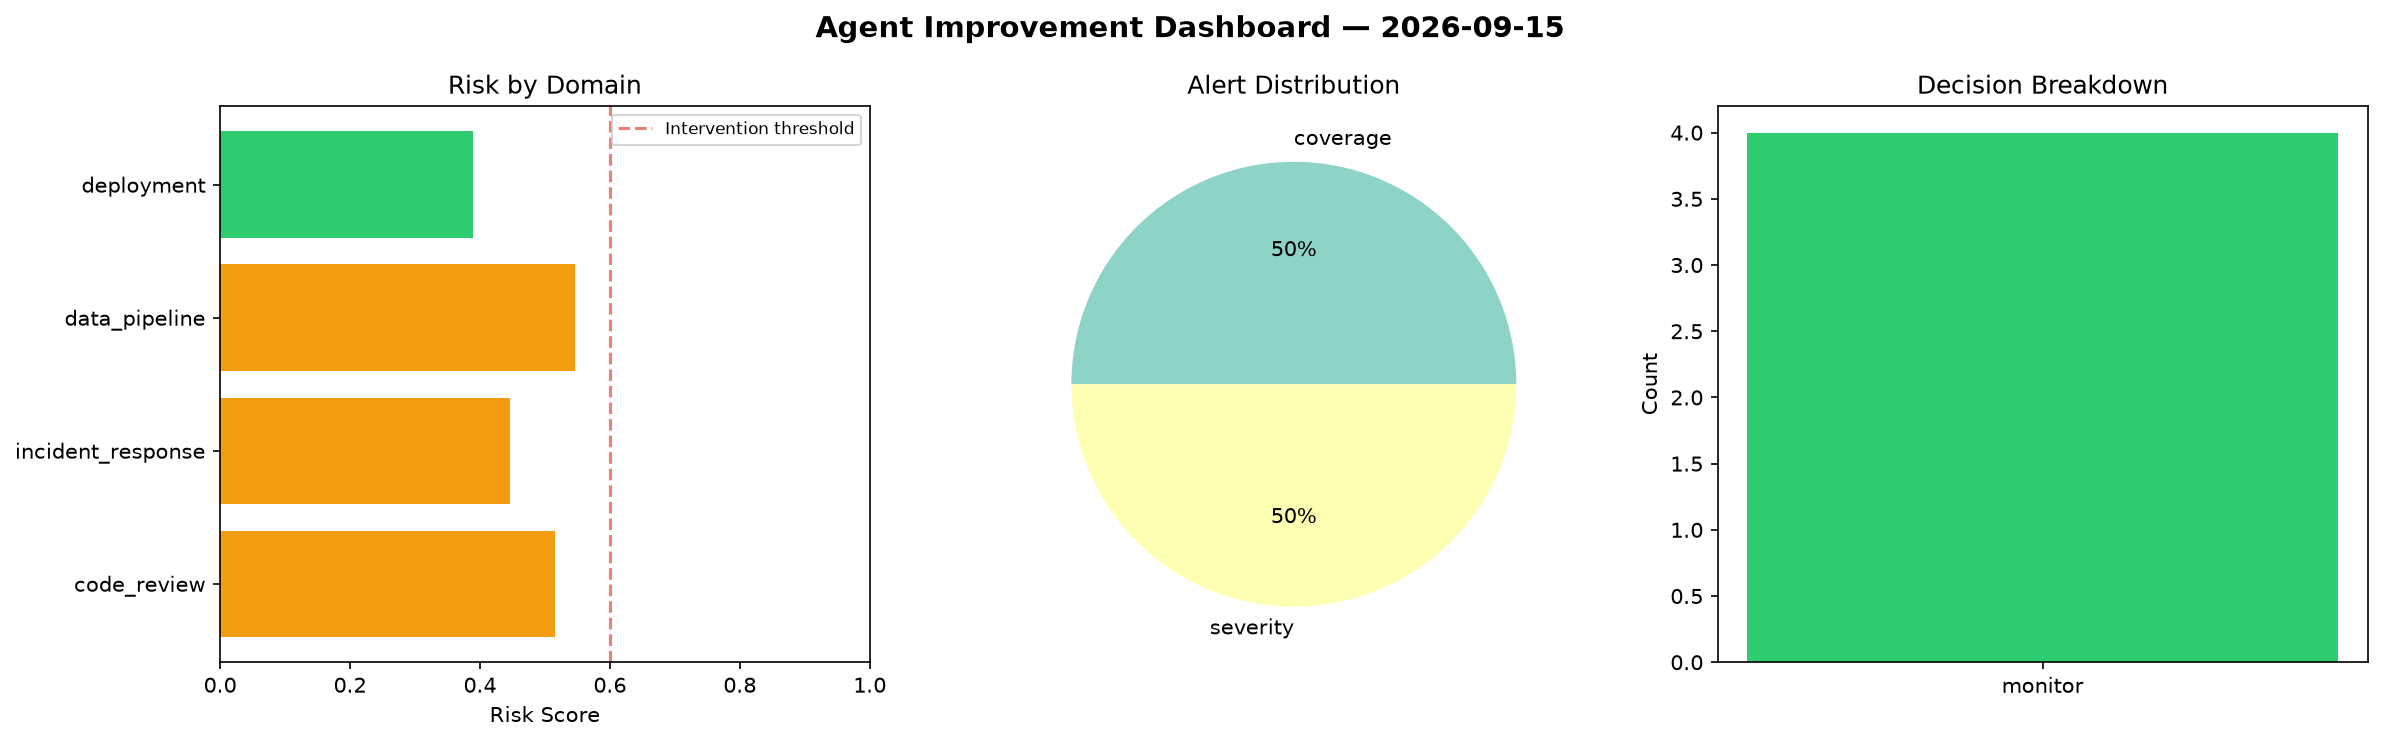
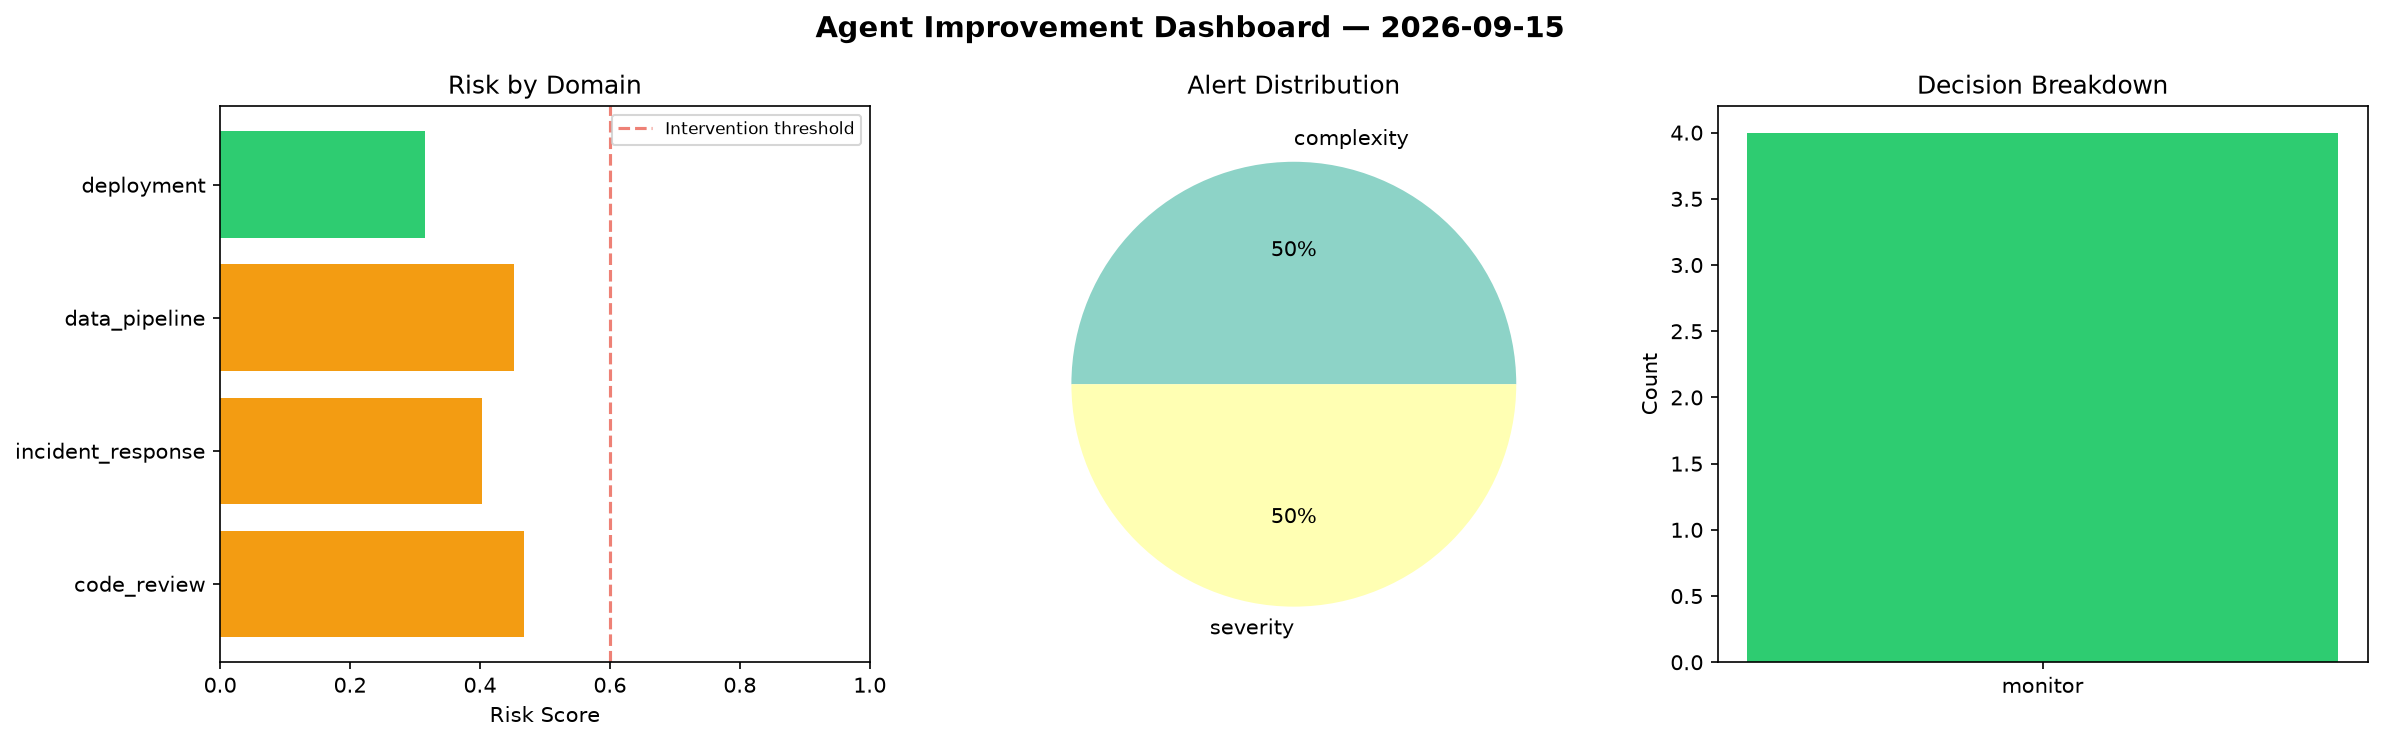
agent-improvement: daily cycle 2026-09-15T13:33

diff --git a/logs/2026-09-15.md b/logs/2026-09-15.md
@@ -1,6 +1,6 @@
 # Agent Improvement Report — 2026-09-15
 
-**Cycle ID:** `54b261d9` | **Avg Risk:** 0.4746 | **Interventions:** 0/4
+**Cycle ID:** `c9f5e21e` | **Avg Risk:** 0.4094 | **Interventions:** 0/4
 
 ![Dashboard](2026-09-15_dashboard.png)
 
@@ -10,18 +10,18 @@
 
 | Domain | Risk Score | Decision | Alerts |
 |--------|-----------|----------|--------|
-| code_review | 0.516 | monitor | coverage |
-| incident_response | 0.4466 | monitor | severity |
-| data_pipeline | 0.5461 | monitor | none |
-| deployment | 0.3898 | monitor | none |
+| code_review | 0.467 | monitor | complexity |
+| incident_response | 0.4025 | monitor | severity |
+| data_pipeline | 0.4523 | monitor | none |
+| deployment | 0.3158 | monitor | none |
 
 ## Delta vs Yesterday
 
 | Domain | Today | Yesterday | Change |
 |--------|-------|-----------|--------|
-| code_review | 0.516 | 0.6587 | 📉 -21.7% |
-| incident_response | 0.4466 | 0.676 | 📉 -33.9% |
-| data_pipeline | 0.5461 | 0.6482 | 📉 -15.8% |
-| deployment | 0.3898 | 0.3936 | 📉 -1.0% |
+| code_review | 0.467 | 0.6587 | 📉 -29.1% |
+| incident_response | 0.4025 | 0.676 | 📉 -40.5% |
+| data_pipeline | 0.4523 | 0.6482 | 📉 -30.2% |
+| deployment | 0.3158 | 0.3936 | 📉 -19.8% |
 
 **Refinement:** `{'adjustment': 'maintain', 'trend': 'improving', 'window': 4}`
